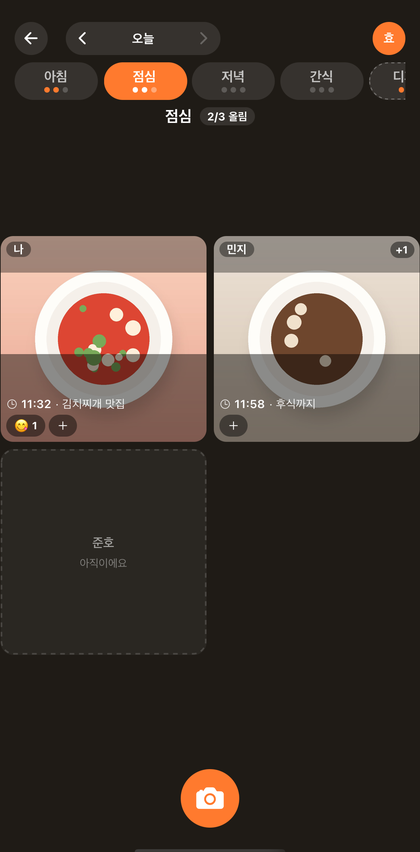
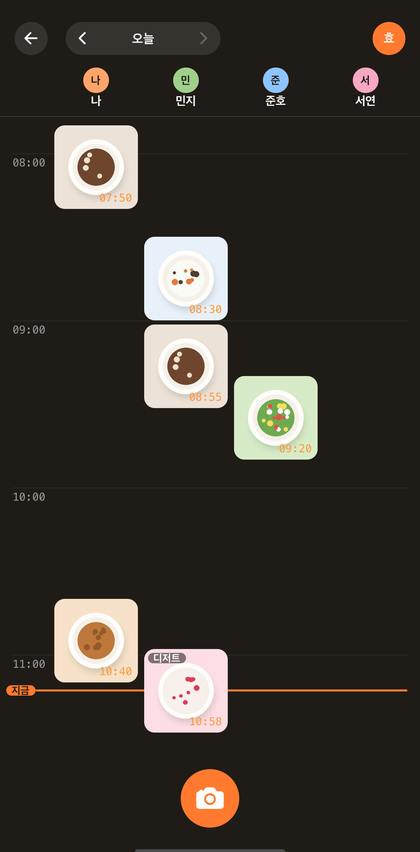
docs: README 스크린샷·소개를 시간 띠 방 화면으로

diff --git a/README.md b/README.md
@@ -12,16 +12,16 @@
 
 <table align="center">
   <tr>
-    <td align="center"><img src="docs/readme/board.png" width="200" alt="끼니 보드" /></td>
+    <td align="center"><img src="docs/readme/board.png" width="200" alt="방 화면 — 멤버별 시간 띠" /></td>
     <td align="center"><img src="docs/readme/detail.png" width="200" alt="사진 상세" /></td>
-    <td align="center"><img src="docs/readme/upload-tag.png" width="200" alt="태그 붙여 올리기" /></td>
+    <td align="center"><img src="docs/readme/upload-tag.png" width="200" alt="올리기 — 먹은 시각과 태그" /></td>
     <td align="center"><img src="docs/readme/edit.png" width="200" alt="기록 편집" /></td>
   </tr>
   <tr>
-    <td align="center"><sub><b>끼니 보드</b><br />그룹 친구들이 뭘 먹었나</sub></td>
-    <td align="center"><sub><b>사진 상세</b><br />여러 장은 넘겨 보기</sub></td>
-    <td align="center"><sub><b>올리기</b><br />야식 같은 이름은 태그로</sub></td>
-    <td align="center"><sub><b>기록 편집</b><br />끼니 · 시각 · 메모 · 그룹</sub></td>
+    <td align="center"><sub><b>방 화면</b><br />멤버마다 하루의 띠</sub></td>
+    <td align="center"><sub><b>사진 상세</b><br />그 사람의 그날을 넘겨 보기</sub></td>
+    <td align="center"><sub><b>올리기</b><br />찍은 시각 그대로, 태그는 선택</sub></td>
+    <td align="center"><sub><b>기록 편집</b><br />태그 · 시각 · 메모 · 그룹</sub></td>
   </tr>
 </table>
 
@@ -32,19 +32,19 @@
 뇸은 친한 사람들끼리 "오늘 뭐 먹었어?"를 사진 한 장으로 나누는 앱이에요.
 잘 차린 한 상을 자랑하는 곳이 아니라, 편의점 라면도 부담 없이 올리고 금방 흘려보내는 곳을 만들고 싶었어요.
 
-- 🍚 **하루 끼니 보드** — 아침 · 점심 · 저녁 · 간식마다 그룹 친구들의 한 끼가 한 화면에 모여요.
-  위아래로 밀면 끼니, 좌우로 밀면 날짜가 넘어가요.
-- 🏷 **나만의 끼니 태그** — 야식 · 디저트 · 술처럼 원하는 이름을 붙이면 그날 보드에 그 페이지가 생겨요.
-- 📸 **찍고 바로 보내기** — 찍은 시각으로 끼니를 골라 두고, 보낸 뒤 5초 안에는 되돌릴 수 있어요.
-- 🖼 **여러 장 넘겨 보기** — 한 끼에 여러 장 올리면 상세에서 좌우로 넘겨 봐요.
+- 🕰 **멤버별 시간 띠** — 방에 들어가면 친구마다 세로 띠 하나, 사진이 먹은 시각 자리에 놓여요.
+  비교보다는 각자의 하루를 넘겨 보는 사진첩이에요. 방은 4명까지예요.
+- 📸 **찍은 시각 그대로** — 아침 · 점심을 고르지 않아요. 찍은 시각이 사진 위에 새겨지고, 틀렸으면 바로 고쳐요.
+- 🏷 **태그는 선택** — 야식 · 디저트 · 술처럼 붙이고 싶을 때만. 보낸 뒤 5초 안에는 되돌릴 수 있어요.
+- 🖼 **그날을 넘겨 보기** — 사진을 누르면 그 사람이 그날 올린 사진을 좌우로 넘겨 봐요.
 - 🤤 **1인 1리액션** — 🤤 ❤ 🔥 😂 중 하나. 친구가 올리거나 내 사진에 반응하면 알림이 와요.
-- 🗓 **돌아보기** — 프로필 그리드와 달력으로 내가 먹은 것을 돌아보고, 올린 뒤에도 끼니 · 시각 · 메모를 고칠 수 있어요.
+- 🗓 **돌아보기** — 프로필 그리드와 달력으로 내가 먹은 것을 돌아보고, 올린 뒤에도 태그 · 시각 · 메모를 고칠 수 있어요.
 
 <br />
 
 <p align="center"><img src="docs/readme/brand-promise.png" width="760" alt="뇸이 지키는 것 — 대충 찍어도 한 끼, 숫자로 겨루지 않아요, 리액션은 하나만, 재촉하지 않아요" /></p>
 
-<p align="center"><img src="docs/readme/brand-moments.png" width="760" alt="이런 순간에 — 점심 메뉴 고민될 때, 야근하다 편의점 털이, 자취하는 친구 밥은 먹었나" /></p>
+<p align="center"><img src="docs/readme/brand-moments.png" width="760" alt="이런 순간에 — 점심 메뉴 고민될 때, 야근하다 편의점 털이, 비어 있는 띠로 친구 안부 확인" /></p>
 
 <p align="center"><img src="docs/readme/brand-voice.png" width="760" alt="뇸의 말투 — 민지님이 방금 야식 올렸어요, 준호님이 내 사진에 군침 흘렸어요, 오늘 뭐 드셨어요? 한 끼만 남겨보세요" /></p>
 
